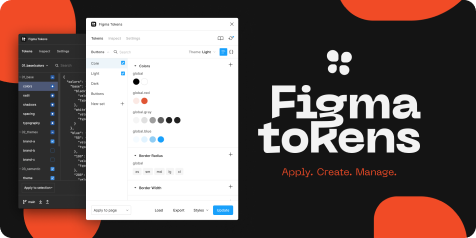
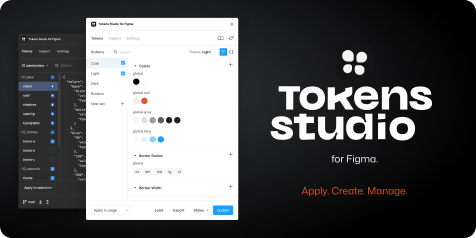
perform brand change

diff --git a/src/app/components/StartScreen.tsx b/src/app/components/StartScreen.tsx
@@ -19,7 +19,7 @@ import Box from './Box';
 import { transformProviderName } from '@/utils/transformProviderName';
 
 const StyledFigmaTokensLogo = styled(FigmaLetter, {
-  width: '90px',
+  width: '130px',
   height: '55px',
 });
 
@@ -80,20 +80,20 @@ function StartScreen() {
           <StyledFigmaTokensLogo />
         </Stack>
         <Text muted>
-          Figma Tokens allows you to use design tokens in Figma and sync those to an external source of truth, for example GitHub.
+          Tokens Studio for Figma allows you to use design tokens in Figma and sync those to an external source of truth, for example GitHub.
         </Text>
         <Stack direction="column" gap={4}>
           <Heading size="large">Guides</Heading>
           <Stack direction="column" gap={3}>
-            <HelpfulLink href="https://docs.figmatokens.com/getting-started" target="_blank">
+            <HelpfulLink href="https://docs.tokens.studio/getting-started" target="_blank">
               <BookmarkIcon />
               Getting started
             </HelpfulLink>
-            <HelpfulLink href="https://docs.figmatokens.com/" target="_blank">
+            <HelpfulLink href="https://docs.tokens.studio/" target="_blank">
               <ReaderIcon />
               Documentation
             </HelpfulLink>
-            <HelpfulLink href="https://figmatokens.com/slack" target="_blank">
+            <HelpfulLink href="https://tokens.studio/slack" target="_blank">
               <ChatBubbleIcon />
               Join our Slack
             </HelpfulLink>
@@ -116,7 +116,7 @@ function StartScreen() {
         )}
         <Stack direction="row" align="center" gap={3}>
           <GitHubLogoIcon />
-          <a href="https://github.com/six7/figma-tokens" style={{ color: '$textMuted', fontSize: '$xsmall' }} target="_blank" rel="noreferrer" className="underline">
+          <a href="https://github.com/tokens-studio/figma-plugin" style={{ color: '$textMuted', fontSize: '$xsmall' }} target="_blank" rel="noreferrer" className="underline">
             Found an issue? We&#39;re on GitHub!
           </a>
         </Stack>

diff --git a/src/app/components/OnboardingFlow.tsx b/src/app/components/OnboardingFlow.tsx
@@ -34,28 +34,28 @@ function fetchOnboardingImage(idx: number) {
 export default function OnboardingFlow() {
   const onboardingflow = [
     {
-      title: 'Welcome to Figma Tokens',
-      excerpt: 'Hey there, awesome to have you with us. Figma Tokens allows you to use design tokens in Figma and sync those to an external source of truth, for example GitHub.',
+      title: 'Welcome!',
+      excerpt: 'Hey there, awesome to have you with us. Tokens Studio for Figma allows you to use design tokens in Figma and sync those to an external source of truth, for example GitHub.',
     },
     {
       title: 'Create tokens',
       excerpt: 'Start by creating your tokens, a good place to start is your colors. You can even import your existing styles!',
-      read_more_link: 'https://docs.figmatokens.com/tokens/creating-tokens',
+      read_more_link: 'https://docs.tokens.studio/tokens/creating-tokens',
     },
     {
       title: 'Reference token values',
       excerpt: 'Use your token values inside other tokens by writing them inside curly brackets: {colors.red.500} — that way you are able to reuse your tokens.',
-      read_more_link: 'https://docs.figmatokens.com/tokens/aliases',
+      read_more_link: 'https://docs.tokens.studio/tokens/aliases',
     },
     {
       title: 'Apply tokens to a layer',
       excerpt: 'Select a layer in Figma and left-click any token to apply that token on it. Depending on the type of token you clicked on, a different action is performed. Right-click tokens for a context menu to choose what you want to apply.',
-      read_more_link: 'https://docs.figmatokens.com/tokens/applying-tokens',
+      read_more_link: 'https://docs.tokens.studio/tokens/applying-tokens',
     },
     {
       title: 'Want to know more?',
       excerpt: 'Check out the Docs to find even more knowledge and guides. If there’s anything you’re struggling with, let us know on Slack!',
-      read_more_link: 'https://docs.figmatokens.com',
+      read_more_link: 'https://docs.tokens.studio',
     },
   ];
 

diff --git a/src/app/components/Footer.tsx b/src/app/components/Footer.tsx
@@ -111,7 +111,7 @@ export default function Footer() {
         <Stack direction="row" gap={1}>
           <ProBadge />
           <IconButton href="https://docs.tokens.studio/?ref=pf" icon={<DocsIcon />} tooltip="Docs" />
-          <IconButton href="https://github.com/six7/figma-tokens" icon={<FeedbackIcon />} tooltip="Feedback" />
+          <IconButton href="https://github.com/tokens-studio/figma-plugin" icon={<FeedbackIcon />} tooltip="Feedback" />
         </Stack>
       </Stack>
     </Box>

diff --git a/src/app/components/ErrorFallback/ErrorFallback.tsx b/src/app/components/ErrorFallback/ErrorFallback.tsx
@@ -19,7 +19,7 @@ export function ErrorFallback({ error }: { error: Error }) {
         <Text size="xsmall" muted>
           If this keeps happening, you need to reset your tokens.
           {' '}
-          <StyledLink href="https://docs.figmatokens.com/reset-tokens" target="_blank" rel="noreferrer">Read how</StyledLink>
+          <StyledLink href="https://docs.tokens.studio/reset-tokens" target="_blank" rel="noreferrer">Read how</StyledLink>
         </Text>
 
       </Stack>

diff --git a/src/app/components/AddLicenseKey/AddLicenseKey.tsx b/src/app/components/AddLicenseKey/AddLicenseKey.tsx
@@ -98,7 +98,7 @@ export default function AddLicenseKey() {
         <Stack direction="row" gap={2} align="center">
           <ProBadge />
           {existingKey && !licenseKeyError && (
-            <ManageSubscriptionLink href="https://account.figmatokens.com/" target="_blank">
+            <ManageSubscriptionLink href="https://account.tokens.studio" target="_blank">
               Manage subscription
             </ManageSubscriptionLink>
           )}

diff --git a/README.md b/README.md
@@ -1,27 +1,24 @@
-# Figma Tokens
-
-![installs](https://img.shields.io/endpoint?url=https://yuanqing.github.io/figma-plugins-stats/plugin/843461159747178978/installs.json)
-![likes](https://img.shields.io/endpoint?url=https://yuanqing.github.io/figma-plugins-stats/plugin/843461159747178978/likes.json)
+# Tokens Studio for Figma (formerlly known as Figma Tokens)
 
 <a href="https://www.producthunt.com/posts/figma-design-tokens?utm_source=badge-featured&utm_medium=badge&utm_souce=badge-figma-design-tokens" target="_blank"><img src="https://api.producthunt.com/widgets/embed-image/v1/featured.svg?post_id=217712&theme=light" alt="Figma Design Tokens - Making design tokens a single source of truth for Figma. | Product Hunt" style="width: 250px; height: 54px;" width="250" height="54" /></a>
 
-Figma Tokens is a plugin for Figma allowing you to define and use design tokens in Figma. You can store your design tokens in JSON, sync them with a sync provider such as GitHub and define tokens even for properties that have no native support yet in Figma, such as borderRadius or spacing. You can create color and typography tokens in a granular way by extracting atomic decisions to tokens. You can also define aliases for every token, so that you can reuse your decisions. You can define and apply spacing tokens, allowing you to set the Auto Layout properties in Figma automatically. Think of it like Styles for everything.
+Tokens Studio for Figma is a plugin for Figma allowing you to define and use design tokens in Figma. You can store your design tokens in JSON, sync them with a sync provider such as GitHub and define tokens even for properties that have no native support yet in Figma, such as borderRadius or spacing. You can create color and typography tokens in a granular way by extracting atomic decisions to tokens. You can also define aliases for every token, so that you can reuse your decisions. You can define and apply spacing tokens, allowing you to set the Auto Layout properties in Figma automatically. Think of it like Styles for everything.
 
 # Documentation
 https://docs.tokens.studio/
 
 # Roadmap
-https://github.com/users/six7/projects/4/views/4
+https://github.com/users/six7/projects/4
 
 # Slack Channel
-There's a Slack channel where the community can exchange ideas, best practices or simply ask a question. Want to join? Let me know by sending me a [DM on twitter](https://www.twitter.com/six7) and I'll send you the invite.
+There's a Slack channel where the community can exchange ideas, best practices or simply ask a question. [Want to join](https://tokens.studio/slack).
 
 # Sponsors
 | <a href="https://zed.dev/" target="_blank" style="display: block; text-align: center;"><img src="sponsors/zed_logo.png" style="display: block; width: 75px; height: auto; margin-bottom: 4px" alt="Zed Logo"/></a> | <a href="https://mirahi.io/?ref=six7-sponsorship" target="_blank"><img src="sponsors/mirahi_logo_dark.svg" style="display: block; width: 75px; height: auto; margin-bottom: 4px" alt="Mirahi Logo"/></a> |
 | --- | --- |
 | <a href="https://zed.dev/" target="_blank" style="display: block; text-align: center;">zed.dev</a> | <a href="https://mirahi.io/?ref=six7-sponsorship" target="_blank" style="display: block; text-align: center;">Mirahi</a> |
 
-Is your company using Figma Tokens? Consider [sponsoring the project](https://github.com/sponsors/six7) so we can spend time and resources on it!
+Is your company using Tokens Studio for Figma? Consider subscribing to Pro to benefit from advanced features and support the project! More info on [our website.](https://tokens.studio)
 
 # How should I use this plugin?
 There's 2 ways how you could use the plugin: Only use it to create or update your Styles but not apply any tokens with it, which would allow you to use features such as atomic type decisions, aliases and theme sets for managing styles (this is really powerful in combination with Figma's Swap library feature). Or you could use the plugin to apply tokens with it, which would give you style-like functionality for things like border radius or spacings.
@@ -32,13 +29,13 @@ It's up to you what method you choose. If you choose the option to keep using St
 Whenever you apply a token to a layer, the plugin will store hidden information on that layer containing information about what token to apply for what property. Whenever your tokens change, we scan the document for any layers containing these hidden information, and update layers accordingly. For Styles, the plugin checks if there is any local style with the same name of your color or typography tokens and updates these. For files where the local styles is remote (not local to that document) the plugin has no way to apply the style currently and will apply the raw hex value. I would advise to apply styles with Figma's Style feature, not with the plugin due to exactly this reason. The plugin can still serve as a manager for styles then, allowing you to use a single source of truth.
 
 # More information
-Most information can be found in the docs, but you can also go to my personal website to find some more details about my work. [jansix.at/resources/figma-tokens](https://jansix.at/resources/figma-tokens)
+Most information can be found in the [docs](https://docs.tokens.studio) or [our website](https://tokens.studio).
 
 # Contribute
 * Run `yarn` to install dependencies.
 * Run `yarn build:watch` to start webpack in watch mode.
 * Open `Figma` -> `Plugins` -> `Development` -> `New Plugin...` and choose `manifest.json` file from this repo.
-* Create a Pull Request for your branch
+* Create a Pull request for your branch
 
 ### Known Issues
 

diff --git a/developer-knowledgebase/creating-a-release.md b/developer-knowledgebase/creating-a-release.md
@@ -26,7 +26,7 @@ Then, to create the necessary bundle, run `yarn build`.
 Once that is done, launch the plugin in Figma once. Check if the version number is correct and that the plugin is running smooth.
 
 Then you'll need to go to `Manage plugins in development`.
-Click on Figma Tokens and choose `Publish a new release`
+Click on Tokens Studio and choose `Publish a new release`
 
 ## Creating a Sentry release
 

diff --git a/LICENSE.md b/LICENSE.md
@@ -1,6 +1,6 @@
 MIT License
 
-Copyright (c) 2022 Jan Six and [Contributors](https://github.com/six7/figma-tokens/graphs/contributors)
+Copyright (c) 2022 Jan Six and [Contributors](https://github.com/tokens-studio/figma-plugin/graphs/contributors)
 
 Permission is hereby granted, free of charge, to any person obtaining a copy
 of this software and associated documentation files (the "Software"), to deal

diff --git a/token-transformer/README.md b/token-transformer/README.md
@@ -1,6 +1,6 @@
 ****# Token Transformer
 
-Converts tokens from Figma Tokens to something Style Dictionary can read, removing any math operations or aliases, only resulting in raw values.
+Converts tokens from Tokens Studio for Figma to something Style Dictionary can read, removing any math operations or aliases, only resulting in raw values.
 
 ## How to use
 
